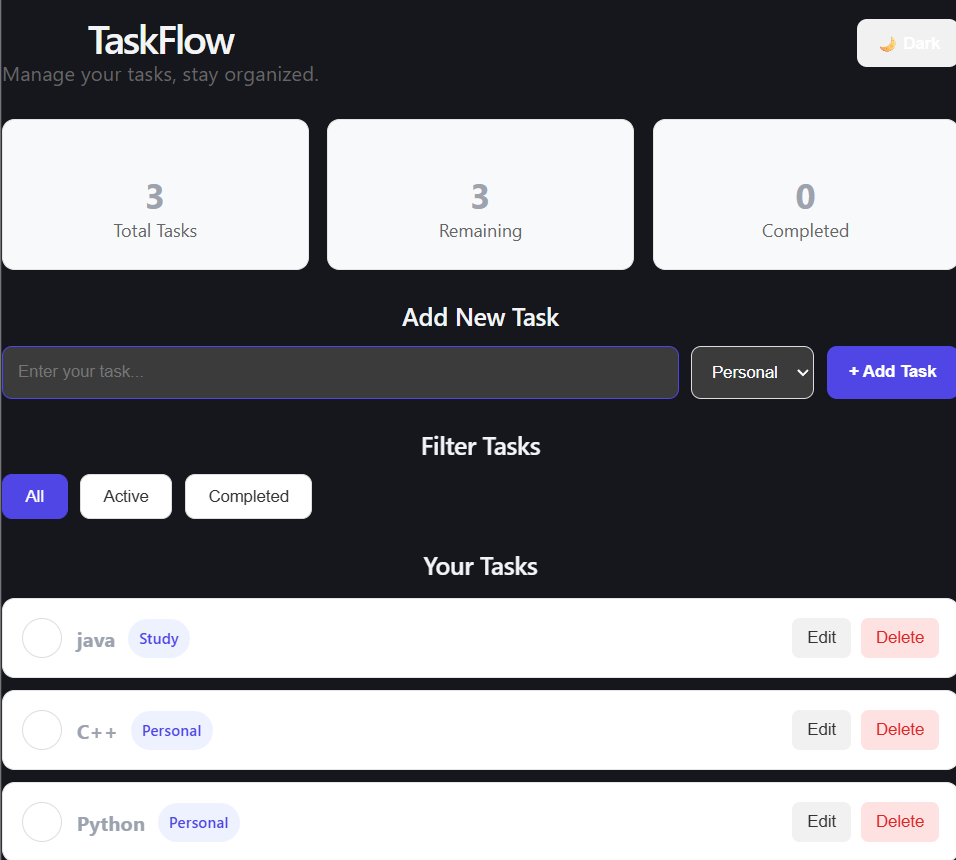
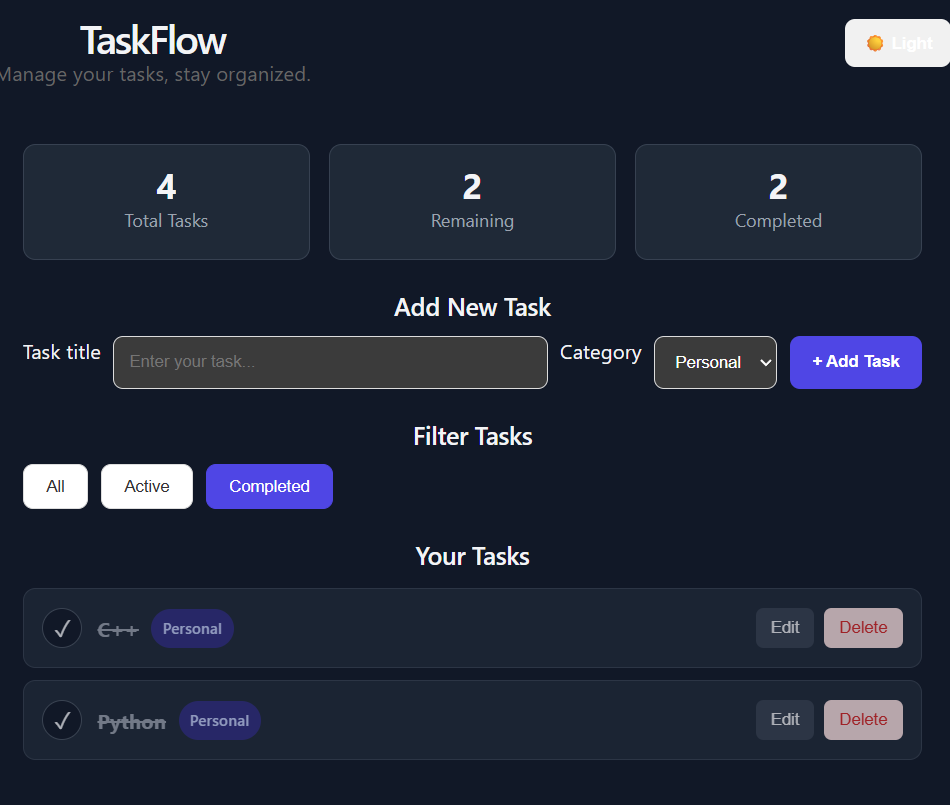
Add project documentation and screenshots

diff --git a/README.md b/README.md
@@ -1,6 +1,6 @@
 # TaskFlow – Personal Task Manager
 
-TaskFlow is a responsive React-based personal task management application that helps users create, organize, track, edit, and complete their daily tasks. Tasks are stored using browser localStorage so they remain available after refreshing the page.
+TaskFlow is a responsive React-based personal task management application designed to help users create, organize, track, edit, and complete their daily tasks. The application uses React functional components, React Hooks, reusable components, and browser localStorage to provide a simple and responsive task management experience.
 
 ## Features
 
@@ -10,14 +10,15 @@ TaskFlow is a responsive React-based personal task management application that h
 * Mark tasks as completed
 * Filter tasks by All, Active, and Completed
 * Organize tasks using categories
-* Display task statistics
-* Save tasks using localStorage
+* Display total, remaining, and completed task statistics
+* Save tasks using browser localStorage
 * Restore saved tasks after page refresh
 * Dark/light mode
-* Responsive user interface
+* Responsive design for desktop and mobile devices
 * Controlled form inputs
 * Conditional rendering
 * Reusable React components
+* Interactive task management using React state
 
 ## Technologies Used
 
@@ -35,62 +36,115 @@ TaskFlow is a responsive React-based personal task management application that h
 ## Project Structure
 
 ```text
-src/
-├── components/
-│   ├── Header.jsx
-│   ├── TaskForm.jsx
-│   ├── TaskStats.jsx
-│   ├── FilterBar.jsx
-│   ├── TaskList.jsx
-│   └── TaskItem.jsx
-├── App.jsx
-├── App.css
-└── main.jsx
+TaskFlow/
+├── src/
+│   ├── components/
+│   │   ├── Header.jsx
+│   │   ├── TaskForm.jsx
+│   │   ├── TaskStats.jsx
+│   │   ├── FilterBar.jsx
+│   │   ├── TaskList.jsx
+│   │   └── TaskItem.jsx
+│   ├── App.jsx
+│   ├── App.css
+│   └── main.jsx
+├── screenshots/
+│   ├── dashboard.png
+│   ├── tasks.png
+│   └── dark-mode.png
+├── index.html
+├── package.json
+└── README.md
 ```
 
 ## Installation and Setup
 
-Clone or download the project and open the project folder in a terminal.
+### 1. Clone or download the project
 
-Install the required dependencies:
+Clone the repository or download the project files and open the project folder in a terminal.
+
+### 2. Install dependencies
+
+Run:
 
 ```bash
 npm install
 ```
 
-Start the development server:
+### 3. Start the development server
+
+Run:
 
 ```bash
 npm run dev
 ```
 
-Open the localhost URL provided by Vite in your browser.
+Vite will start the development server and provide a local URL, normally using a localhost address. Open the URL shown in the terminal in your web browser.
+
+### 4. Build the project
+
+To create a production build, run:
+
+```bash
+npm run build
+```
+
+## How to Use
+
+1. Enter a task title in the task form.
+2. Select a category for the task.
+3. Click **+ Add Task**.
+4. Use the check button to mark a task as completed.
+5. Click **Edit** to change the task title or category.
+6. Click **Delete** to remove a task.
+7. Use the **All**, **Active**, and **Completed** filters to view specific tasks.
+8. Use the **Dark/Light** button to change the application theme.
+9. Refresh the page to verify that saved tasks remain available.
 
 ## Data Persistence
 
-TaskFlow uses browser localStorage to save task information. When the application is refreshed, previously saved tasks are automatically loaded.
+TaskFlow uses the browser's `localStorage` to save task information. Tasks are automatically stored whenever the task data changes and are loaded again when the application starts.
+
+This allows tasks to remain available after refreshing the browser without requiring a backend database or user account.
+
+## React Concepts Demonstrated
+
+This project demonstrates several important React concepts:
+
+* Functional React components
+* Component reusability
+* Props and callback functions
+* `useState` for interactive application state
+* `useEffect` for localStorage synchronization
+* Controlled form inputs
+* Event handling
+* Conditional rendering
+* Array `.map()` for rendering task lists
+* Unique keys for list items
+* Array filtering for task filters
+* Responsive CSS design
+
 ## Screenshots
 
-## Main Dashboard
+### Main Dashboard
 
 ![TaskFlow Dashboard](screenshots/dashboard.png)
 
-## Task Management
+### Task Management
 
 ![Task Management](screenshots/tasks.png)
 
-## Dark Mode
+### Dark Mode
 
 ![TaskFlow Dark Mode](screenshots/dark-mode.png)
-
-
-
 
 ## Known Limitations
 
 * Tasks are stored only in the user's browser using localStorage.
 * There is no user account or cloud synchronization.
+* Tasks cannot currently be shared between different devices.
 * Data may be lost if the browser's localStorage is manually cleared.
+* There are no push notifications or reminder services.
 
 ## Future Improvements
 
@@ -102,8 +156,40 @@ Possible future improvements include:
 * User authentication
 * More advanced task categories
 * Notifications
+* Task search functionality
+* Multi-device synchronization
+
+## Testing
+
+The application should be tested by running:
+
+```bash
+npm install
+npm run dev
+```
+
+The following functionality should be checked:
+
+* Adding tasks
+* Editing tasks
+* Deleting tasks
+* Completing and uncompleting tasks
+* Filtering tasks
+* Category selection
+* Task statistics
+* localStorage persistence after refresh
+* Dark/light mode
+* Responsive mobile layout
+
+A production build can also be checked using:
+
+```bash
+npm run build
+```
 
 ## Author
 
-Aditya Chaudhary
+**Aditya Chaudhary**
+
+TaskFlow – Personal Task Manager
 
